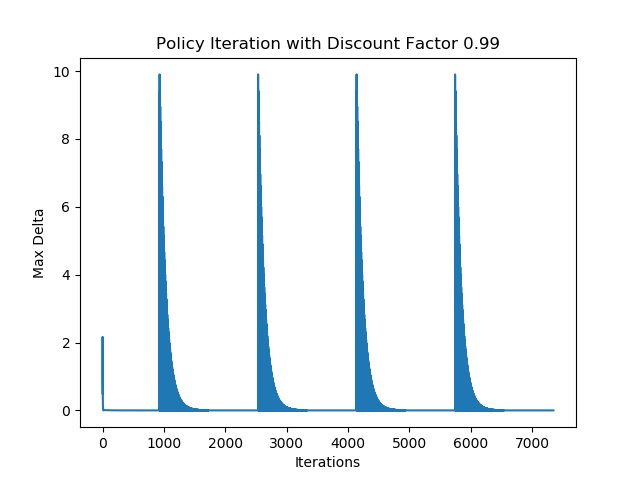
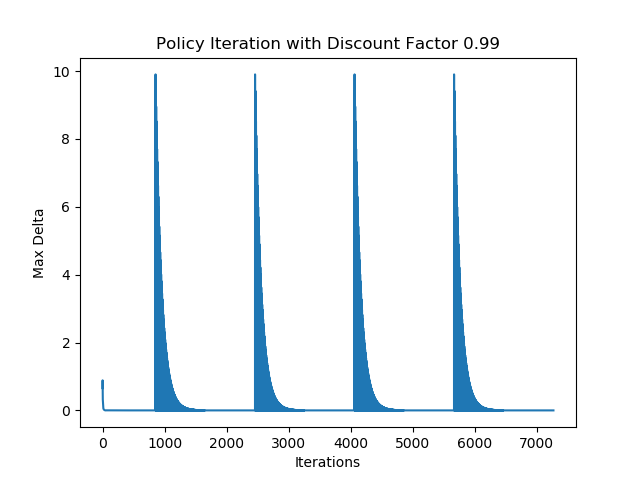
edited policy_iteration, the graph output does not match ipynb

diff --git a/Python Files/policy_iteration.py b/Python Files/policy_iteration.py
@@ -4,6 +4,7 @@
 from Gridworld import Gridworld
 from policy_evaluation import policy_evaluation
 import numpy as np
+from random import randint
 
 # display output
 from random import uniform
@@ -20,13 +21,15 @@ theta = 0.000001
 discount_factor = 0.99
 delta_list = []
 
-# initialize a policy: create an array of dimension (number of states by number of actions)
-# for equal probability amongst all actions, divide everything by the number of actions
-policy = np.ones([state_count, action_count]) / action_count
+# # initialize a policy: create an array of dimension (number of states by number of actions)
+# # for equal probability amongst all actions, divide everything by the number of actions
+# policy = np.ones([state_count, action_count]) / action_count
 
-# policy at state 0 = [0, 0]
-# returns a probability for each action given state
-policy[0]
+# create a random policy
+random_policy = np.random.randint(1000, size=(state_count, action_count))
+random_policy = random_policy/random_policy.sum(axis=1)[:,None]
+policy = random_policy
+
 
 # create a grid object
 grid = Gridworld(5)
@@ -65,10 +68,10 @@ while True:
                                                                     grid.p_transition, grid.transition_prob, policy)
 
     # for plotting purpose
-    print("iter: ", max_iter)
+    # print("iter: ", max_iter)
     final_max_iter += max_iter
-    print("sum iter: ", final_max_iter)
-    print(len(delta))
+    # print("sum iter: ", final_max_iter)
+    # print(len(delta))
     delta_list.extend(delta)
 
     # POLICY IMPROVEMENT #######################################
@@ -144,7 +147,10 @@ for state in range(len(policy)):
 
 print("Policy Table: ")
 print(policy_table)
+print("Value Map: ")
+print(final_value_map)
 
+# PRINT DELTA PLOT #####################################################################
 import matplotlib.pyplot as plt
 # get every 25th value
 delta_list_ = delta_list[0::state_count]

diff --git a/Python Files/policy_evaluation.py b/Python Files/policy_evaluation.py
@@ -38,7 +38,8 @@ def policy_evaluation(value_map, states, discount_factor, theta, reward, transit
             valueMap_copy[state[0], state[1]] = value
 
             # calculate delta
-            delta = max(delta, np.abs(value - value_map[state[0], state[1]]))       
+            delta = max(delta, np.abs(value - value_map[state[0], state[1]]))
+            print("Delta: ", delta)       
             # clear_output(wait=True)
             # display('delta: ' + str(delta) + ' iterations: ' + str(iterations))
 
